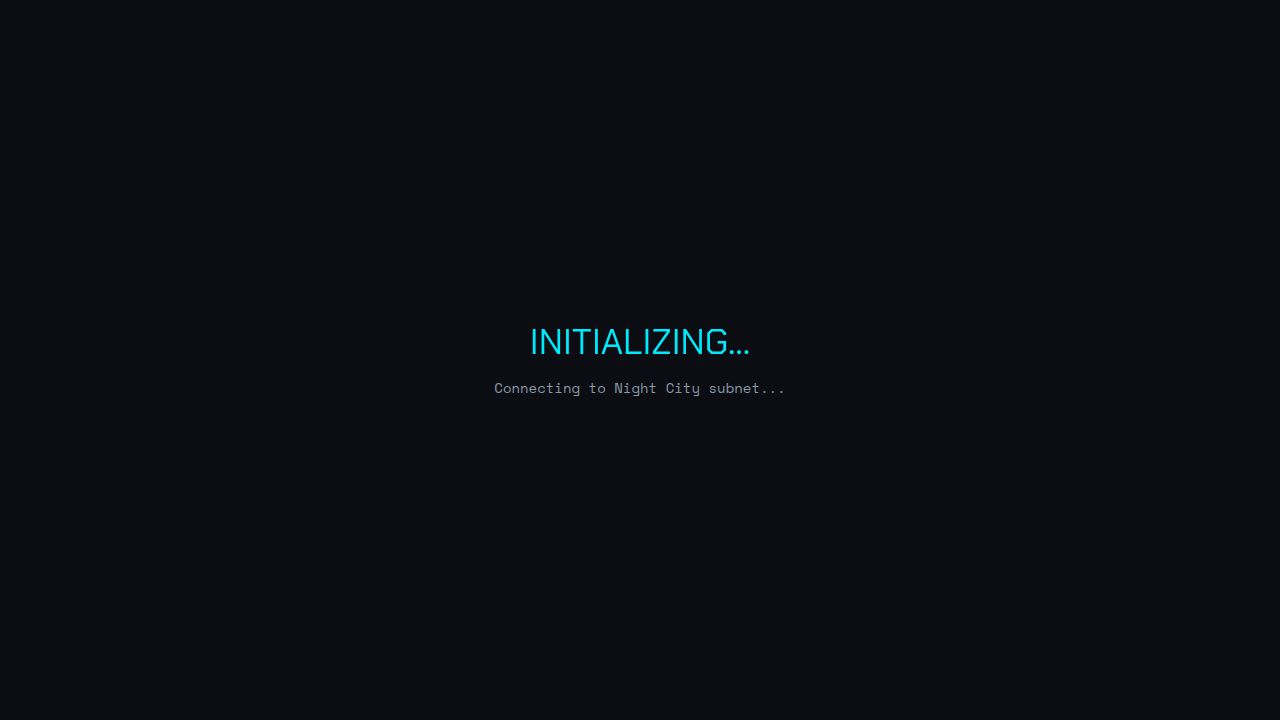
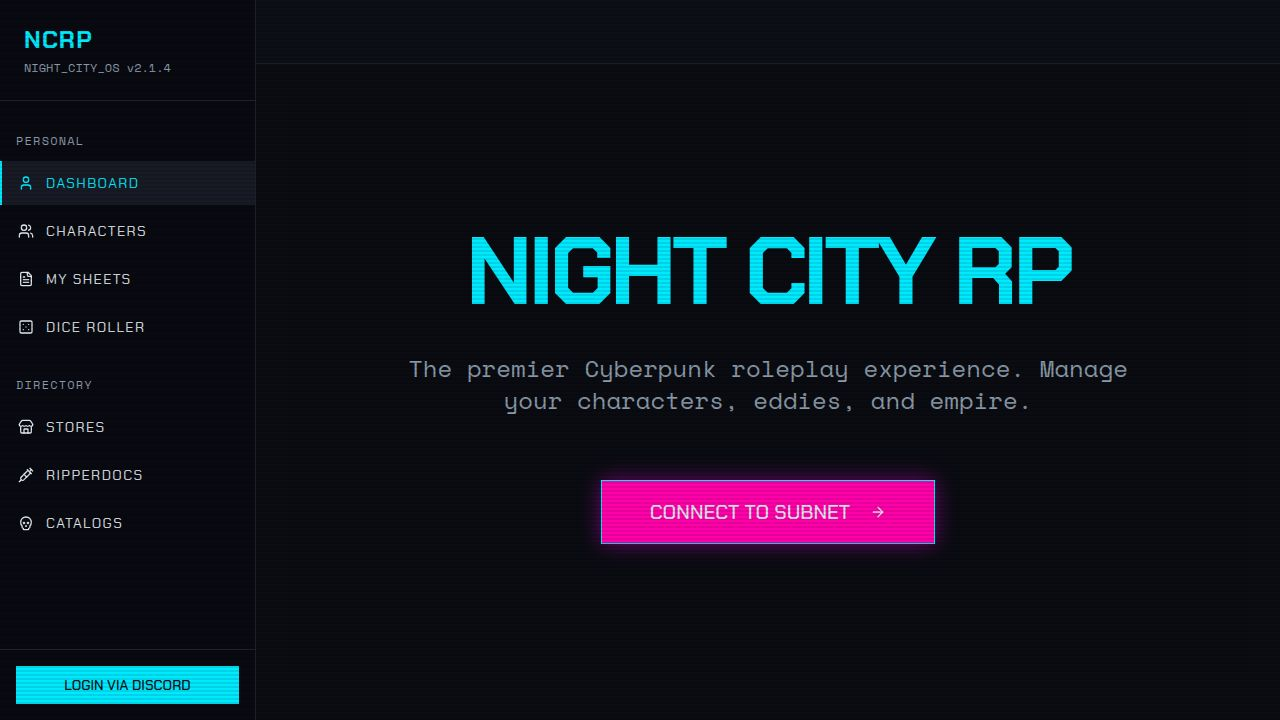
Fix Discord login "Login failed" error
Original task: users clicking "Login with Discord" reached the authorize prompt, approved, and landed on a plaintext "Login failed" page instead of being signed in.

Root cause: the API server logged `Token exchange failed: 401 {"error":"invalid_client"}` from the OAuth callback. The `DISCORD_CLIENT_SECRET` env var had been set to the Discord bot token (72 chars) rather than the OAuth2 client secret (~40 chars), so Discord rejected the token exchange. Requested the correct OAuth2 client secret from the user via requestEnvVar; the user provided it and it is now 40 chars and distinct from the bot token.

Code changes (artifacts/api-server):
- src/lib/discord.ts: introduced typed errors `DiscordConfigError` and `DiscordUpstreamError`. `exchangeCode` now detects `invalid_client` (returns a config error explaining secret-vs-bot-token), detects `invalid_grant` (returns a config error naming the exact redirect URI that must be registered), and wraps other non-OK responses as upstream errors. Also short-circuits with a config error when `DISCORD_CLIENT_ID`/`DISCORD_CLIENT_SECRET` is missing. `fetchUser` now throws `DiscordUpstreamError`.
- src/routes/auth.ts: the callback's catch block no longer returns a bare "Login failed". Config errors return 500 with the specific message and an admin-contact hint; upstream errors return 502 with a retry hint; unknown errors return a generic 500 retry message. No secrets are leaked.

Other parts of the task verified, no changes needed:
[…]

diff --git a/artifacts/api-server/src/lib/discord.ts b/artifacts/api-server/src/lib/discord.ts
@@ -38,7 +38,28 @@ export function buildAuthUrl(state: string): string {
   return `https://discord.com/oauth2/authorize?${params}`;
 }
 
+export class DiscordConfigError extends Error {
+  constructor(message: string) {
+    super(message);
+    this.name = "DiscordConfigError";
+  }
+}
+
+export class DiscordUpstreamError extends Error {
+  status: number;
+  constructor(status: number, message: string) {
+    super(message);
+    this.name = "DiscordUpstreamError";
+    this.status = status;
+  }
+}
+
 export async function exchangeCode(code: string) {
+  if (!DISCORD_CLIENT_ID || !DISCORD_CLIENT_SECRET) {
+    throw new DiscordConfigError(
+      "Discord OAuth is not configured: DISCORD_CLIENT_ID and/or DISCORD_CLIENT_SECRET is missing.",
+    );
+  }
   const body = new URLSearchParams({
     client_id: DISCORD_CLIENT_ID,
     client_secret: DISCORD_CLIENT_SECRET,
@@ -51,7 +72,20 @@ export async function exchangeCode(code: string) {
     headers: { "Content-Type": "application/x-www-form-urlencoded" },
     body,
   });
-  if (!res.ok) throw new Error(`Token exchange failed: ${res.status} ${await res.text()}`);
+  if (!res.ok) {
+    const text = await res.text();
+    if (res.status === 401 && text.includes("invalid_client")) {
+      throw new DiscordConfigError(
+        "Discord rejected the OAuth client credentials (invalid_client). The DISCORD_CLIENT_SECRET likely does not match the DISCORD_CLIENT_ID for this Discord application. Note: the OAuth2 client secret is NOT the bot token — generate it under OAuth2 → Reset Secret in the Discord Developer Portal.",
+      );
+    }
+    if (res.status === 400 && text.includes("invalid_grant")) {
+      throw new DiscordConfigError(
+        `Discord rejected the OAuth authorization code (invalid_grant). The redirect URI registered on the Discord application must exactly match ${getRedirectUri()}.`,
+      );
+    }
+    throw new DiscordUpstreamError(res.status, `Token exchange failed: ${res.status} ${text}`);
+  }
   return (await res.json()) as {
     access_token: string;
     refresh_token: string;
@@ -64,7 +98,7 @@ export async function fetchUser(accessToken: string) {
   const res = await fetch(`${API}/users/@me`, {
     headers: { Authorization: `Bearer ${accessToken}` },
   });
-  if (!res.ok) throw new Error(`Discord user fetch failed: ${res.status}`);
+  if (!res.ok) throw new DiscordUpstreamError(res.status, `Discord user fetch failed: ${res.status}`);
   return (await res.json()) as {
     id: string;
     username: string;

diff --git a/artifacts/api-server/src/routes/auth.ts b/artifacts/api-server/src/routes/auth.ts
@@ -9,6 +9,8 @@ import {
   fetchGuildMemberRoles,
   avatarUrl,
   hasRole,
+  DiscordConfigError,
+  DiscordUpstreamError,
 } from "../lib/discord";
 import { requireAuth } from "../middlewares/auth";
 
@@ -69,7 +71,21 @@ router.get("/auth/discord/callback", async (req, res): Promise<void> => {
     res.redirect("/");
   } catch (err) {
     req.log.error({ err }, "Discord OAuth callback failed");
-    res.status(500).send("Login failed");
+    if (err instanceof DiscordConfigError) {
+      res.status(500).type("text/plain").send(
+        `Login is misconfigured on the server.\n\n${err.message}\n\nPlease contact an administrator.`,
+      );
+      return;
+    }
+    if (err instanceof DiscordUpstreamError) {
+      res.status(502).type("text/plain").send(
+        `Discord returned an error during login (HTTP ${err.status}). Please try again in a moment.`,
+      );
+      return;
+    }
+    res.status(500).type("text/plain").send(
+      "Unexpected error completing Discord login. Please try again; if the problem persists, contact an administrator.",
+    );
   }
 });
 